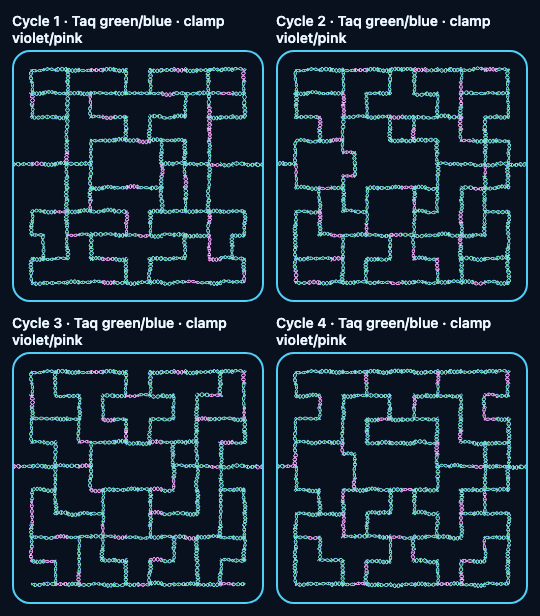
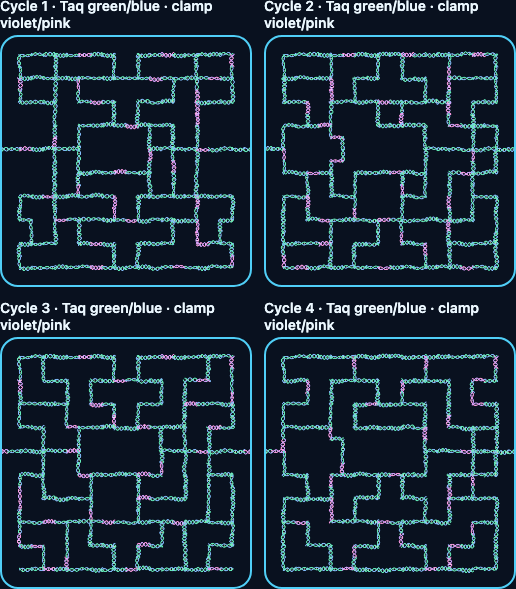
Enable music and sound effects by default for first-time pl... (+2 more)
- Enable music and sound effects by default for first-time players while preserving saved opt-outs
  and the browser's click-to-start audio requirement.
- Refresh the README as a player-facing landing page with a verified live GitHub Pages link, one
  content-trimmed dark-mode capture of the 16:10 desktop game, a guided first cycle, and contributo...
- Confirm the live Pages endpoint returns HTTP 200, visually inspect the refreshed 1446x1056
  content-trimmed dark capture with both audio controls enabled, pass all 60 Node checks and four l...

diff --git a/tests/playwright/smoke.spec.ts b/tests/playwright/smoke.spec.ts
@@ -1,7 +1,7 @@
 import { expect, test } from "@playwright/test";
 
 // Selector contract: src/ui/app.tsx exposes the title and named canvas.
-test("music is opt-in and remembers the setting after reload", async ({ page }) => {
+test("music defaults on and remembers an opt-out after reload", async ({ page }) => {
   await page.addInitScript(() => {
     // Preserve the native method; the probe calls it with the original context receiver.
     // eslint-disable-next-line @typescript-eslint/unbound-method
@@ -27,17 +27,17 @@ test("music is opt-in and remembers the setting after reload", async ({ page }) 
   const errors: string[] = [];
   page.on("pageerror", (error) => errors.push(error.message));
   await page.goto("/");
-  await page.getByRole("button", { name: "Turn music on", exact: true }).click();
   await expect(page.getByRole("button", { name: "Turn music off", exact: true })).toHaveAttribute(
     "aria-pressed",
     "true",
   );
+  await page.getByRole("button", { name: "Start cycle", exact: true }).click();
   await expect(page.locator("html")).toHaveAttribute("data-audio-detected", "yes");
   await page.reload();
   await expect(page.getByRole("button", { name: "Turn music off", exact: true })).toBeVisible();
-  await page.getByRole("button", { name: "Start cycle" }).click();
-  await expect(page.getByLabel("Bases synthesized")).not.toHaveText("0");
   await page.getByRole("button", { name: "Turn music off", exact: true }).click();
+  await expect(page.getByRole("button", { name: "Turn music on", exact: true })).toBeVisible();
+  await page.reload();
   await expect(page.getByRole("button", { name: "Turn music on", exact: true })).toBeVisible();
   expect(errors).toEqual([]);
 });
@@ -159,23 +159,25 @@ test("400px dashboard stacks readable controls and accepts maze swipes", async (
 
 test("music and FX controls remain independent after reload", async ({ page }) => {
   await page.goto("/");
-  await page.getByRole("button", { name: "Turn FX on", exact: true }).click();
   await expect(page.getByRole("button", { name: "Turn FX off", exact: true })).toBeVisible();
-  await expect(page.getByRole("button", { name: "Turn music on", exact: true })).toBeVisible();
-  await page.reload();
-  await expect(page.getByRole("button", { name: "Turn FX off", exact: true })).toBeVisible();
-  await page.getByRole("button", { name: "Turn music on", exact: true }).click();
-  await page.getByRole("button", { name: "Turn FX off", exact: true }).click();
   await expect(page.getByRole("button", { name: "Turn music off", exact: true })).toBeVisible();
+  await page.getByRole("button", { name: "Turn FX off", exact: true }).click();
   await expect(page.getByRole("button", { name: "Turn FX on", exact: true })).toBeVisible();
+  await page.reload();
+  await expect(page.getByRole("button", { name: "Turn FX on", exact: true })).toBeVisible();
+  await expect(page.getByRole("button", { name: "Turn music off", exact: true })).toBeVisible();
+  await page.getByRole("button", { name: "Turn music off", exact: true }).click();
+  await page.getByRole("button", { name: "Turn FX on", exact: true }).click();
+  await expect(page.getByRole("button", { name: "Turn music on", exact: true })).toBeVisible();
+  await expect(page.getByRole("button", { name: "Turn FX off", exact: true })).toBeVisible();
 });
 
 test("dashboard focus does not disable keyboard movement", async ({ page }) => {
   await page.goto("/");
   await page.getByRole("button", { name: "Start cycle" }).click();
-  const setting = page.getByRole("button", { name: "Turn FX on", exact: true });
+  const setting = page.getByRole("button", { name: "Turn FX off", exact: true });
   await setting.click();
-  await expect(page.getByRole("button", { name: "Turn FX off", exact: true })).toBeFocused();
+  await expect(page.getByRole("button", { name: "Turn FX on", exact: true })).toBeFocused();
   await page.keyboard.press("ArrowLeft");
   await expect(page.getByLabel("Bases synthesized")).not.toHaveText("0");
   await page.keyboard.press("Escape");

diff --git a/src/game/save.ts b/src/game/save.ts
@@ -12,8 +12,8 @@ export function defaultSave(): Save {
   return {
     version: 2,
     highScore: 0,
-    muted: true,
-    fxMuted: true,
+    muted: false,
+    fxMuted: false,
     scanlines: true,
     scanlineStrength: 3,
     difficulty: 2,
@@ -48,8 +48,8 @@ export function decodeSave(raw: string | null): Save {
       value.difficulty <= 5
         ? value.difficulty
         : 2,
-    muted: "muted" in value && typeof value.muted === "boolean" ? value.muted : true,
-    fxMuted: "fxMuted" in value && typeof value.fxMuted === "boolean" ? value.fxMuted : true,
+    muted: "muted" in value && typeof value.muted === "boolean" ? value.muted : false,
+    fxMuted: "fxMuted" in value && typeof value.fxMuted === "boolean" ? value.fxMuted : false,
     scanlines:
       "scanlines" in value && typeof value.scanlines === "boolean" ? value.scanlines : true,
     scanlineStrength:

diff --git a/src/ui/app.tsx b/src/ui/app.tsx
@@ -22,7 +22,7 @@ export function App(): JSX.Element {
   const hud = createGameSignals(game);
   const music = createMusic();
   const effects = createSoundEffects();
-  const [fxMuted, setFxMuted] = createSignal(true);
+  const [fxMuted, setFxMuted] = createSignal(false);
   let rememberFx: (value: boolean) => void = () => {};
   async function toggleFx(): Promise<void> {
     if (fxMuted()) {
@@ -37,7 +37,7 @@ export function App(): JSX.Element {
     rememberFx(fxMuted());
     setAudioMessage("");
   }
-  const [muted, setMuted] = createSignal(true);
+  const [muted, setMuted] = createSignal(false);
   const [scanlineStrength, setScanlineStrength] = createSignal(3);
   let rememberStrength: (value: number) => void = () => {};
   const [audioMessage, setAudioMessage] = createSignal("");

diff --git a/README.md b/README.md
@@ -1,40 +1,44 @@
 # Ms Taq Man
 
-A playable molecular-biology arcade game: steer Taq polymerase through connected DNA mazes, collect RNA primers, and synthesize a glowing double helix while dodging animated enzyme foes.
+A playable molecular-biology arcade game for science learners and retro-game fans: steer Taq
+polymerase through DNA mazes, collect RNA primers, and build a glowing double helix while escaping
+animated enzyme foes.
 
-## Synthesize your escape route
+**[Play Ms Taq Man on GitHub Pages](https://vosslab.github.io/ms-taq-man/)**
 
-Collect a primer, then turn fresh corridors into DNA. Clear a cycle by covering
-**60% of template edges at default Easy difficulty OR collecting every primer**. You never need both.
+## Anneal. Extend. Survive.
+
+Prime your route, synthesize the maze behind you, and use molecular power-ups to stay ahead of four
+enzyme rivals. Clear a cycle by covering **60% of the template at default Easy difficulty** or by
+collecting every primer.
 
 <!-- screenshots:begin (managed by screenshot-docs) -->
-![Paused desktop game showing Taq polymerase extending a double-helix trail through the connected template maze beside the dashboard](docs/screenshots/gameplay.png)
-![Paused 400-pixel mobile game showing the template maze above the stacked controls and status dashboard](docs/screenshots/gameplay_mobile.png)
-![Dramatic polymerase denaturation scene with a full-board grayscale maze, spiral, confetti, and cycle dashboard](docs/screenshots/browser_death.png)
+![Paused dark-mode game showing Taq polymerase extending a double helix through the 16:10 DNA maze and dashboard](docs/screenshots/gameplay.png)
 <!-- screenshots:end -->
 
-These current captures show active synthesis, the stacked mobile dashboard, and
-the full-board denaturation scene. The dashboard stays beside the maze on desktop
-and stacks below it on phones.
+The content-trimmed dark-mode capture keeps the game's 16:10 desktop cabinet, active synthesis, and
+cycle goals visible in one view.
 
-- Four rotating mazes and four enzyme personalities keep the chase changing.
-- Hot-start activators turn the tables: chase the frightened, unraveled enzymes.
-- Helpful reagents grant speed, protection, combo boosts, or bonus points.
-- Choose difficulty from Chill to Wild; Easy is the default.
-- Independent music and FX controls, adjustable CRT scanlines, and reduced-motion support.
+## Play your first cycle
 
-**Status:** locally verified and ready to build as a GitHub Pages static site. This
-repository does not claim that an external Pages deployment is currently live.
+1. Open the [live game](https://vosslab.github.io/ms-taq-man/) and select **Start cycle**.
+2. Steer with the arrow keys or WASD. Press Left from the starting position to reach a nearby
+   primer.
+3. Keep moving to extend a double helix through fresh corridors. Queue turns before junctions.
+4. Cover the target percentage or collect every primer to begin the next thermal cycle.
 
-## Your first cycle
+On touchscreens, swipe on the maze. Set difficulty to **1 - Chill** for slower enemies, and use
+Escape or the main button to pause. Music and effects default to on and start after you select
+**Start cycle**. Your best score and settings survive browser reloads, but an active run does not.
 
-Click **Start cycle**, then use arrow keys or WASD. Press Left from the starting
-position to reach a nearby primer; keep moving and watch your helix and base count
-grow. Queue turns before junctions. Use Escape or the pause button to take a break.
+## What makes it molecular
 
-On touchscreens, swipe on the maze. Set difficulty to
-**1 - Chill** for slower enemies. Music and effects start muted; their buttons say
-what clicking will do. Your best score and settings survive browser reloads.
+- Four rotating DNA mazes and four enzyme personalities keep the chase changing.
+- Hot-start activators denature your rivals so Taq can capture them for chain bonuses.
+- A collectible sliding clamp helps synthesize, repair, and protect DNA.
+- Reagents grant speed, protection, combo boosts, or bonus points.
+- Chill-to-Wild difficulty, separate music and FX controls, adjustable CRT scanlines, and
+  reduced-motion support let you tune the experience.
 
 ## Run locally
 
@@ -50,26 +54,14 @@ The launcher builds the game into `dist/` and serves it on a local port. Open th
 localhost URL shown in the terminal, then start a cycle. Stop the server with Ctrl-C.
 Use HTTP rather than opening the HTML file directly.
 
-To generate the GitHub Pages-ready static site without starting a server:
-
-```bash
-./build_github_pages.sh
-```
-
-## Guides and development
+## Learn more
 
 - [docs/USAGE.md](docs/USAGE.md): controls, scoring, reagent powers, difficulty, and sound.
-- [docs/CODE_ARCHITECTURE.md](docs/CODE_ARCHITECTURE.md): simulation, rendering, UI, and audio boundaries.
-- [docs/FILE_STRUCTURE.md](docs/FILE_STRUCTURE.md): edit locations, generated art, and verification commands.
-- [docs/active_plans/reports/acceptance_matrix.md](docs/active_plans/reports/acceptance_matrix.md): requirement-level verification and its limits.
+- [docs/CODE_ARCHITECTURE.md](docs/CODE_ARCHITECTURE.md): simulation, rendering, UI, and audio
+  boundaries for contributors.
+- [docs/FILE_STRUCTURE.md](docs/FILE_STRUCTURE.md): source locations, generated art, and verification
+  commands.
 - [docs/CHANGELOG.md](docs/CHANGELOG.md): current changes and fixes.
-
-Run `./check_codebase.sh` for TypeScript, lint, formatting, and simulation tests.
-Run `./run_playwright_tests.sh` for browser checks after building. Repository hygiene
-checks use `source source_me.sh && python3 -m pytest tests/`.
-
-To refresh the documentation captures, start the local server and run
-`node tools/capture_gameplay.mjs http://localhost:PORT/` with its printed port.
 
 ## License
 

diff --git a/docs/active_plans/active/arcade_completion.md b/docs/active_plans/active/arcade_completion.md
@@ -49,7 +49,7 @@ Every implementation handoff includes changed paths, checks, limitations, and ev
 | A3 | Architecture owner: `src/ui/`, `src/render/`, `src/main.tsx` | A2 | Extract the imperative loop and renderer from App. Implement snapshot bridge, HUD and overlays with Solid ownership and cleanup. Rendering consumes read-only state; no simulation reads Solid. Preserve behavior through the refactor. |
 | A4 | Art owner: `src/art/*.svg`, art review document | A1 | Complete death coil, frightened, eyes, hot-start, strand ribbon, seven reagents, logo, backdrop, and player mouth/eye-direction groups. Keep distinct silhouettes and semantic SVG groups. Inspect every sprite at 16px and 256px. Deliver source assets without editing the generated atlas. |
 | A5 | Rendering owner: `src/render/`, atlas generator | A3, A4 | Load the complete typed atlas at device scale; animate active-site cleft, primer pulse, frightened expiry flash, and death unwind. Add seeded strand phase/overshoot, re-extension variation, and visible chew-back fade with bounded dirty-region repaint. Validate full-maze performance. |
-| A6 | Interaction owner: `src/ui/`, `src/style.css` | A3 | Finish attract screen, ready/pause/game-over panels, thermal gauge and intermission animation; contextual start/restart, Escape menu, and keyboard/touch parity. Add muted-by-default audio and persisted settings, reduced-motion support, scanline toggle, light/dark palettes, reagent tray, and readable current priming state. |
+| A6 | Interaction owner: `src/ui/`, `src/style.css` | A3 | Finish attract screen, ready/pause/game-over panels, thermal gauge and intermission animation; contextual start/restart, Escape menu, and keyboard/touch parity. Add enabled-by-default audio with persisted settings, reduced-motion support, scanline toggle, light/dark palettes, reagent tray, and readable current priming state. |
 | A7 | Acceptance owner: `tests/playwright/`, `tests/e2e/`, screenshots | A2, A5, A6 | Demonstrate full cycle clearance through movement, death/repriming, all four rotations, chew-back removal and re-extension, bonus collection, save reload, and keyboard-only play. Capture 400px and desktop evidence, full nest, and sprite atlas. Run attended play for pacing and readability. |
 | A8 | Documentation owner: README and project docs | A7 | Complete usage, architecture, file structure, decisions, human guidance, changelog, and final acceptance matrix. Run all prescribed gates and report exact limitations. |
 

diff --git a/docs/active_plans/reports/acceptance_matrix.md b/docs/active_plans/reports/acceptance_matrix.md
@@ -32,8 +32,6 @@ remaining boundary.
 | Arrow keys, WASD, swipe, and dashboard focus | **Verified** | Arrow keys are the primary documented input; browser smoke tests cover keyboard focus and 400 px swipe input. |
 | Dramatic death, celebration, scanlines, and independent sound controls | **Verified / sensory limit** | Static captures and source verify the visual states and controls. Earlier attended play feedback covered sound, scanlines, and pacing; static images cannot prove motion rhythm or audio mix. |
 
-![Keyboard-driven cycle completion](../../screenshots/browser_cycle.png)
-
 ## Browser acceptance run
 
 The long driver at `tests/playwright/e2e/browser_traversal.mjs` uses real
@@ -64,5 +62,5 @@ measure human skill, subjective pacing, or real-time performance on every device
   Python 3.12; no Python source changed.
 - `git diff --check`: passed during documentation closeout.
 
-The build is ready for a GitHub Pages deployment workflow, but this repository
-does not claim that an external deployment has been performed.
+The [live GitHub Pages game](https://vosslab.github.io/ms-taq-man/) returned HTTP 200 during the
+2026-09-10 documentation closeout.

diff --git a/docs/CHANGELOG.md b/docs/CHANGELOG.md
@@ -10,6 +10,23 @@
   rebuild threatened DNA more often, and distinguish synthesis, repair, rescue, distraction, and
   recharge states.
 
+### Behavior or Interface Changes
+
+- Enable music and sound effects by default for first-time players while preserving saved opt-outs
+  and the browser's click-to-start audio requirement.
+
+- Refresh the README as a player-facing landing page with a verified live GitHub Pages link, one
+  content-trimmed dark-mode capture of the 16:10 desktop game, a guided first cycle, and contributor
+  details placed after the playable experience. Update the capture harness to reproduce the source
+  view, trim the maintained screenshots to their content, and remove the light-mode captures.
+
+### Developer Tests and Notes
+
+- Confirm the live Pages endpoint returns HTTP 200, visually inspect the refreshed 1446x1056
+  content-trimmed dark capture with both audio controls enabled, pass all 60 Node checks and four
+  level validations through `./check_codebase.sh`, pass all 18 browser tests, and pass all 1,055
+  Python repository checks.
+
 ## 2026-09-09
 
 ### Additions and New Features

diff --git a/docs/active_plans/reports/art_review.md b/docs/active_plans/reports/art_review.md
@@ -1,22 +1,17 @@
 # Final art and interface review
 
-Reviewed 2026-09-09 from the maintained documentation captures, current SVG
+Reviewed 2026-09-10 from the maintained documentation captures, current SVG
 sources, and the regenerated native-detail sprite atlas. This is visual
 acceptance evidence, not a claim that still images can evaluate sound or motion
 timing.
 
 ## Captures
 
-- `gameplay.png`: 1920 x 1200 desktop cabinet.
-- `gameplay_mobile.png`: 400 x 1297 stacked mobile view.
-- `browser_death.png`: full-board polymerase denaturation.
-- `browser_cycle.png`: cycle-complete celebration.
-- `full_nests.png`: four fully synthesized templates.
+- `gameplay.png`: content-trimmed dark capture from the 1920 x 1200 desktop cabinet.
+- `full_nests.png`: content-trimmed dark composite of four fully synthesized templates.
 - `test-results/sprite_atlas.png`: 22 editable source sprites at native detail.
 
 ![Four full template nests](../../screenshots/full_nests.png)
-
-![Keyboard-driven cycle celebration](../../screenshots/browser_cycle.png)
 
 ## Findings
 

diff --git a/docs/USAGE.md b/docs/USAGE.md
@@ -97,8 +97,8 @@ Returning eyes retain their normal house-return speed at every difficulty.
 - **Turn music on/off** controls the soundtrack.
 - **Turn FX on/off** independently controls pickup, protection, reward, death,
   and completion cues.
-- Both sound channels start muted. Browsers require a click before audio can play;
-  after a reload, Start cycle unlocks enabled audio.
+- Both sound channels default to on. Browsers require a click before audio can play;
+  **Start cycle** unlocks enabled audio.
 - **Scanline strength** adjusts the cabinet texture from 0 to 5. Zero turns it
   off; five gives the strongest CRT bands. The setting survives a reload.
 - Reduced-motion preferences suppress scanlines and confetti and simplify death.

diff --git a/docs/active_plans/splendid-gathering-tulip.md b/docs/active_plans/splendid-gathering-tulip.md
@@ -192,7 +192,7 @@ Each phase ends green on `./check_codebase.sh`.
 7. **Cycle loop**: maze rotation, level table, thermal-cycle interstitial, bonus reagents, game
    over, versioned high-score save.
 8. **Art pass**: author every SVG, wire generator and atlas, replace placeholders.
-9. **Polish**: attract mode, intermissions, CSS shell, touch controls, audio muted by default.
+9. **Polish**: attract mode, intermissions, CSS shell, touch controls, audio enabled by default.
 10. **Docs and tests**: README first paragraph (About-safe prose, live Pages URL below it),
     `docs/USAGE.md`, `docs/CODE_ARCHITECTURE.md`, `docs/FILE_STRUCTURE.md`,
     `docs/DESIGN_DECISIONS.md`, `docs/CHANGELOG.md` entries per phase.

diff --git a/docs/active_plans/reports/browser_traversal.md b/docs/active_plans/reports/browser_traversal.md
@@ -10,8 +10,6 @@ live game with a top-level freeze. That projection is intentionally not describe
 as recursively immutable: nested copied collections remain ordinary copies. It
 is sufficient for observation because the driver never writes it or the live game.
 
-![Cycle completion from the browser traversal](../../screenshots/browser_cycle.png)
-
 ## Recorded run
 
 | Cycle | Clear time | Deaths before clear | Final-edge interval |

diff --git a/docs/HUMAN_GUIDANCE.md b/docs/HUMAN_GUIDANCE.md
@@ -1,5 +1,10 @@
 # Human guidance
 
+- Enable music and sound effects by default for first-time players.
+
+- Keep the GitHub README user-facing. Link directly to the live GitHub Pages game and use a
+  content-trimmed dark-mode capture of the 16:10 desktop game layout.
+
 - Maze layouts should form clear corridors without broad open floor areas,
   especially around the enzyme house and tunnel approaches.
 
